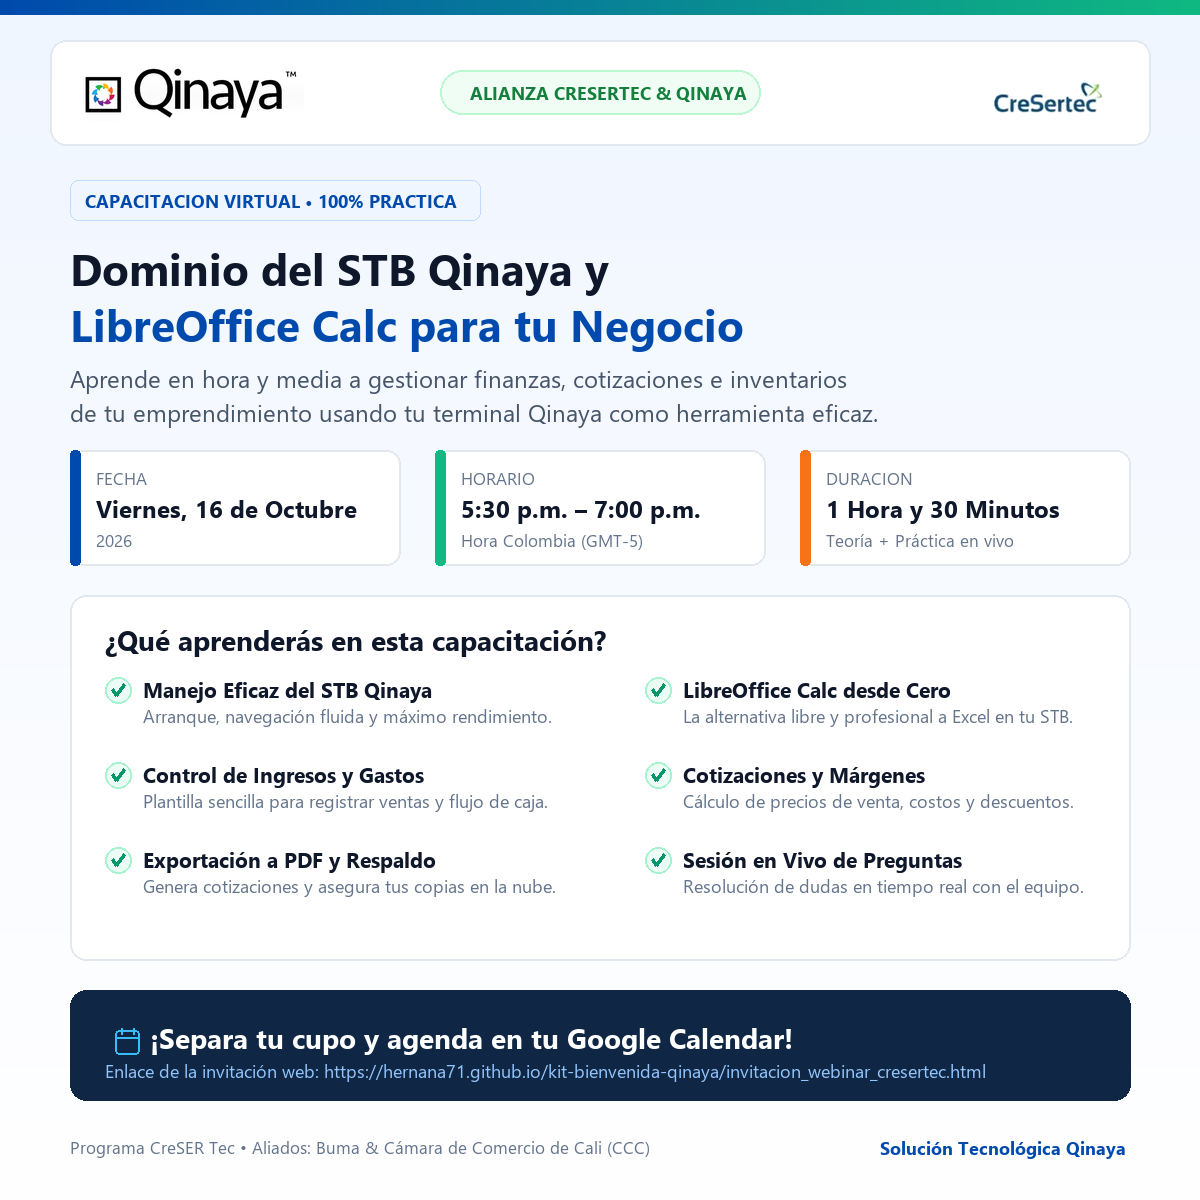
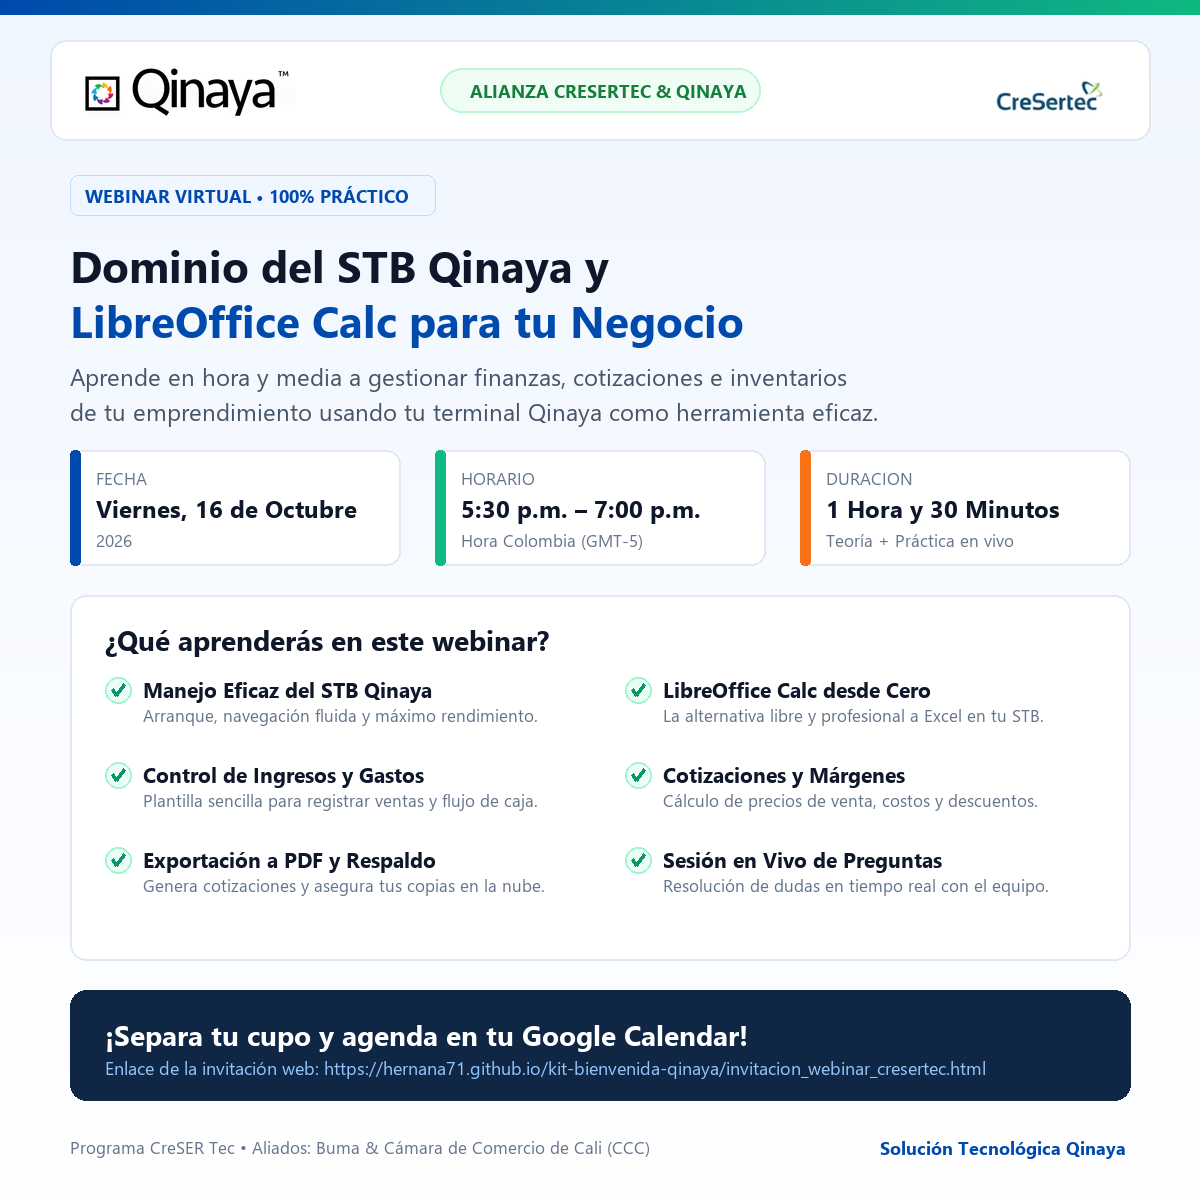
fix: reemplazar todas las menciones de capacitacion por webinar en invitacion y tarjeta CreSertec

diff --git a/invitacion_webinar_cresertec.html b/invitacion_webinar_cresertec.html
@@ -5,12 +5,12 @@
     <meta charset="UTF-8">
     <meta name="viewport" content="width=device-width, initial-scale=1.0">
     <title>Invitación Webinar | Dominio del STB Qinaya y LibreOffice Calc — CreSertec</title>
-    <meta name="description" content="Invitación al webinar de capacitación para beneficiarios de CreSertec: Manejo del STB Qinaya y hojas de cálculo con LibreOffice Calc para tu negocio o emprendimiento.">
+    <meta name="description" content="Invitación al webinar para beneficiarios de CreSertec: Manejo del STB Qinaya y hojas de cálculo con LibreOffice Calc para tu negocio o emprendimiento.">
 
     <!-- Open Graph para vista previa en WhatsApp y Redes Sociales -->
     <meta property="og:title" content="Webinar CreSertec: Manejo del STB Qinaya y LibreOffice Calc">
     <meta property="og:description" content="Viernes 16 de Octubre • 5:30 p.m. a 7:00 p.m. Hora y media para dominar tu equipo Qinaya y gestionar las finanzas de tu emprendimiento.">
-    <meta property="og:image" content="https://hernana71.github.io/kit-bienvenida-qinaya/capacitacion_stb_qinaya_cresertec.png">
+    <meta property="og:image" content="https://hernana71.github.io/kit-bienvenida-qinaya/tarjeta_webinar_cresertec.png">
     <meta property="og:type" content="website">
 
     <!-- Font Awesome & Google Fonts -->
@@ -562,7 +562,7 @@
         <div class="card-body">
             
             <div class="event-tag">
-                <i class="fas fa-video"></i> Capacitación Virtual • 100% Práctica
+                <i class="fas fa-video"></i> Webinar Virtual • 100% Práctico
             </div>
 
             <h1 class="event-title">
@@ -639,7 +639,7 @@
             <div class="learning-section">
                 <div class="learning-header">
                     <i class="fas fa-graduation-cap"></i>
-                    <span>¿Qué aprenderás en esta capacitación?</span>
+                    <span>¿Qué aprenderás en este webinar?</span>
                 </div>
                 <div class="learning-grid">
                     <div class="learning-item">
@@ -695,7 +695,7 @@
             <!-- Botones de Acción (Calendar, WhatsApp, Copiar, PDF) -->
             <div class="actions-group">
                 <!-- Enlace Directo de Google Calendar -->
-                <a href="https://calendar.google.com/calendar/render?action=TEMPLATE&text=Capacitaci%C3%B3n+CreSertec%3A+Manejo+del+STB+Qinaya+y+LibreOffice+Calc+para+tu+Emprendimiento&dates=20261016T223000Z%2F20261017T000000Z&details=Webinar+pr%C3%A1ctico+de+1+hora+y+30+minutos+para+beneficiarios+del+programa+CreSertec+%28Buma+%26+CCC%29.%0A%0AAprende+a+dominar+tu+terminal+STB+Qinaya+y+a+utilizar+LibreOffice+Calc+como+herramienta+eficaz+para+el+control+financiero%2C+inventario%2C+precios+y+cotizaciones+de+tu+negocio+o+emprendimiento.%0A%0AOrganizan%3A+CreSertec%2C+C%C3%A1mara+de+Comercio+de+Cali%2C+Buma+y+Qinaya.&location=Sesi%C3%B3n+Virtual+%28Enlace+de+Transmisi%C3%B3n+Qinaya+%2F+CreSertec%29&ctz=America%2FBogota" 
+                <a href="https://calendar.google.com/calendar/render?action=TEMPLATE&text=Webinar+CreSertec%3A+Manejo+del+STB+Qinaya+y+LibreOffice+Calc+para+tu+Emprendimiento&dates=20261016T223000Z%2F20261017T000000Z&details=Webinar+pr%C3%A1ctico+de+1+hora+y+30+minutos+para+beneficiarios+del+programa+CreSertec+%28Buma+%26+CCC%29.%0A%0AAprende+a+dominar+tu+terminal+STB+Qinaya+y+a+utilizar+LibreOffice+Calc+como+herramienta+eficaz+para+el+control+financiero%2C+inventario%2C+precios+y+cotizaciones+de+tu+negocio+o+emprendimiento.%0A%0AOrganizan%3A+CreSertec%2C+C%C3%A1mara+de+Comercio+de+Cali%2C+Buma+y+Qinaya.&location=Sesi%C3%B3n+Virtual+%28Enlace+de+Transmisi%C3%B3n+Qinaya+%2F+CreSertec%29&ctz=America%2FBogota" 
                    target="_blank" 
                    class="btn-calendar" 
                    id="btnCalendar">
